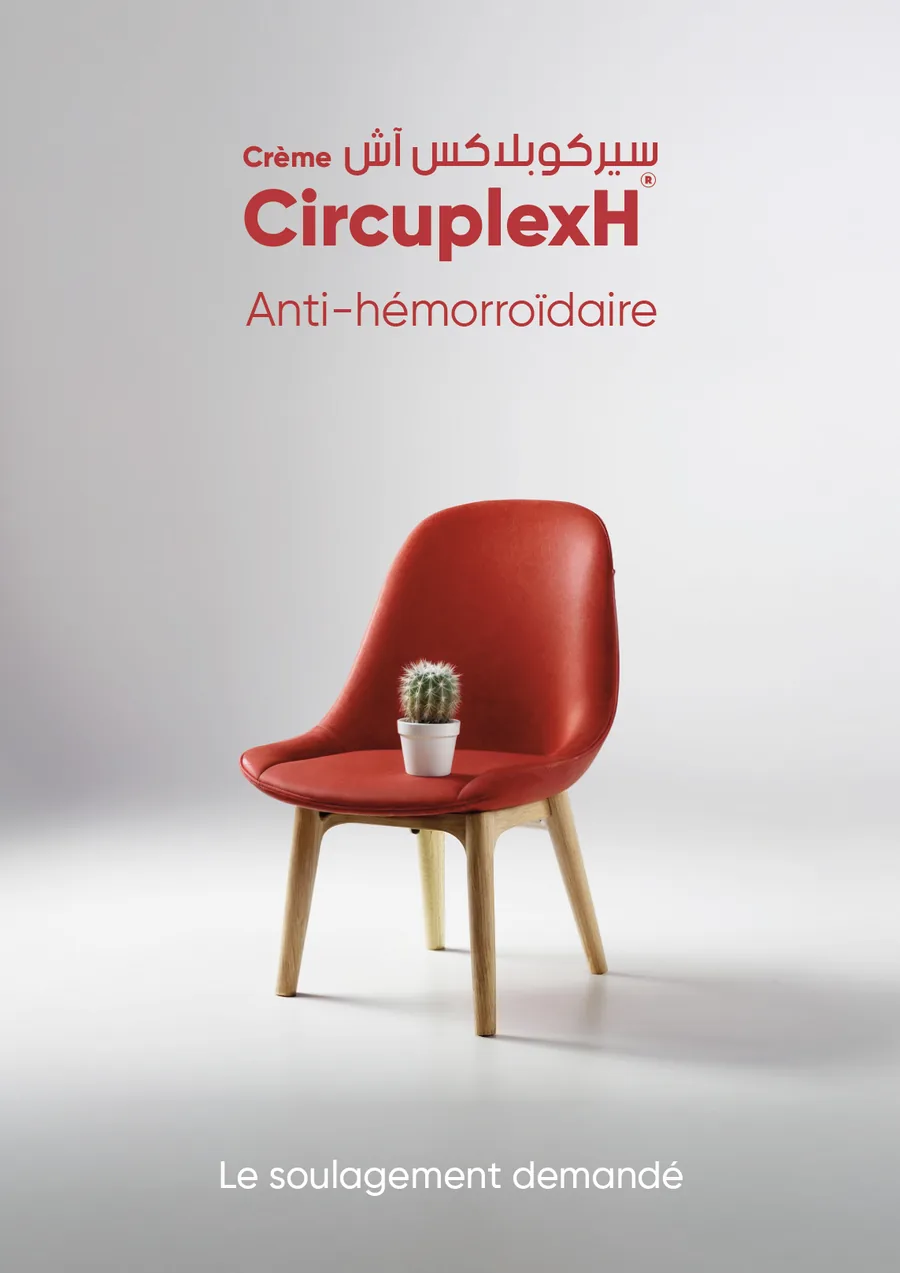
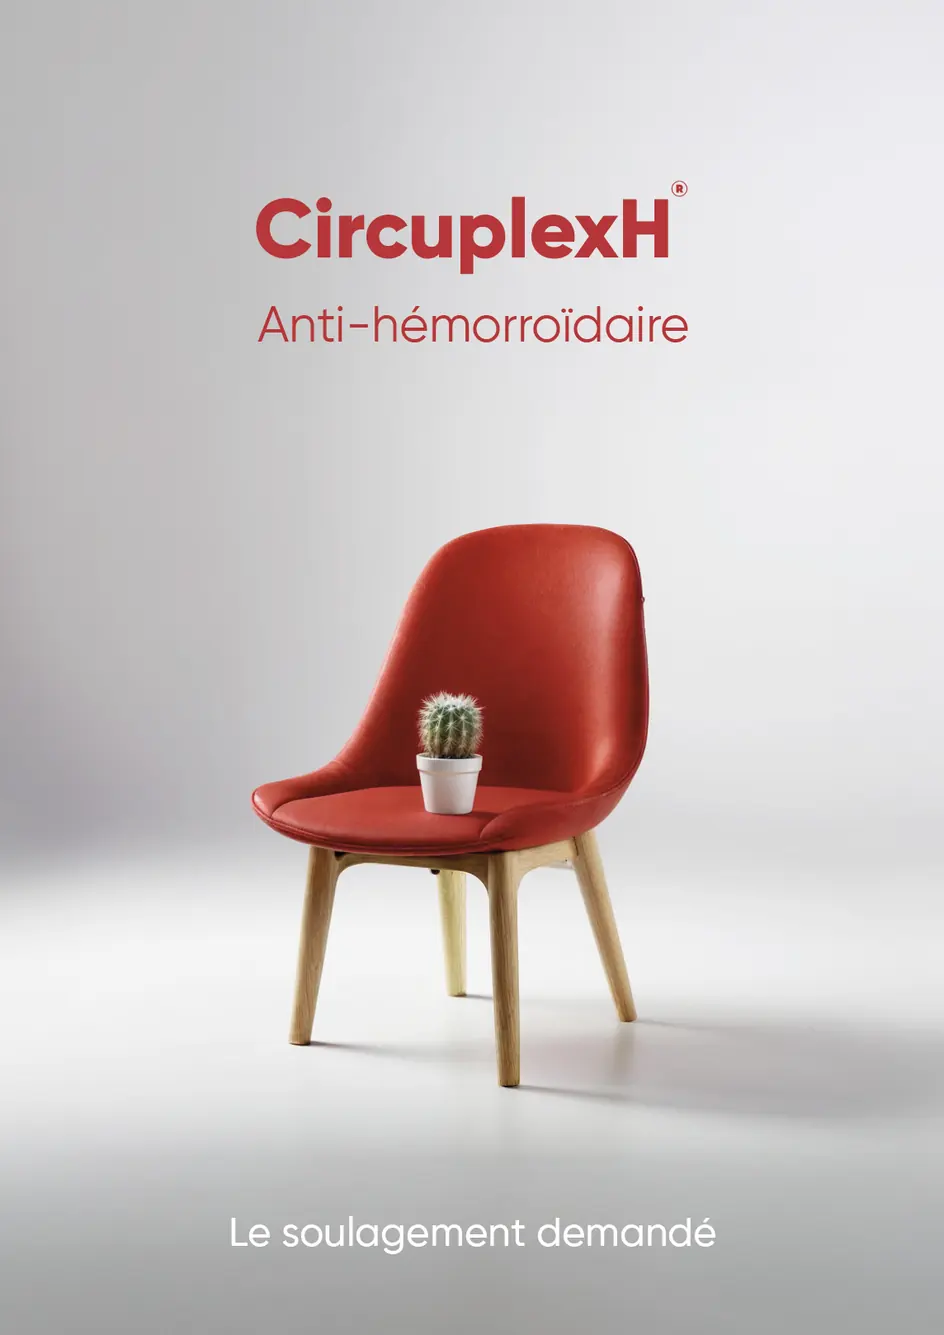
Put the real Natural Solution posters in the reel
Replaces the five generated sheets with the campaign posters:
CircuplexH, Ferronat, HyaluCare, LiniCare and Pitchouline. Every one
maps onto the caption that was already under it, so no copy moved and
the order the section opens on - CircuplexH first - is unchanged.

Sized to the sheet rather than to the old file. The reel column caps
at 472px, so DPR 2 wants 944 wide; the sheets ship at 944x1335 against
the 900x1273 they were, and the width and height attributes follow.
The narrowest source is 1090px, so nothing is upscaled. Each was
fitted to 210:297 at source - the files arrive between 0.7018 and
0.7083 - so object-fit crops none of them.

Quality per image rather than one setting for all five. Four clear
38dB between q=76 and q=80 for 21-63KB. HyaluCare is a dense
composite and does not: its curve is linear, 33.5dB at q=68 through
37.2dB at q=88, every step buying about a decibel for another 25-35KB.
Taking q=88 there would have cost 216KB at 0.176 B/px, outside the
band the rest of the site's imagery occupies, for detail that is
halved again at the 472px it is displayed at. It ships at q=80:
153KB, 0.125 B/px, in band.

The gallery is 352KB, down from 393KB, at better than 1.4x the pixels.

Measured: sheet renders 472x668 (0.7071), all five decode at 944x1335,
none broken, each dot reaches its own sheet, captions still in order;
contrast 0 failures on six pages, no overflow at 17 widths, 134 editor
keys with no duplicates.
[…]

Changed region(s): [[0.28, 0.0919, 0.7467, 0.1838], [0.6533, 0.2145, 0.6844, 0.2757], [0.5911, 0.2145, 0.6222, 0.2757]]

diff --git a/index.html b/index.html
@@ -769,31 +769,31 @@
             <ul class="reel-track">
             <li class="reel-card" style="--i:0">
               <div class="reel-sheet">
-                <img src="assets/posters/natural-circuplexh.webp" alt="CircuplexH — Crème anti-hémorroïdaire" width="900" height="1273" decoding="async" loading="lazy" data-ed="index.i44">
+                <img src="assets/posters/natural-circuplexh.webp" alt="CircuplexH — Crème anti-hémorroïdaire" width="944" height="1335" decoding="async" loading="lazy" data-ed="index.i44">
               </div>
               <div class="reel-cap"><b data-ed="index.t67">CircuplexH</b><span data-ed="index.t68">Crème anti-hémorroïdaire</span></div>
             </li>
             <li class="reel-card" style="--i:1">
               <div class="reel-sheet">
-                <img src="assets/posters/natural-ferronat.webp" alt="Ferronat — Bisglycinate de fer 100 mg/ml" width="900" height="1273" decoding="async" loading="lazy" data-ed="index.i41">
+                <img src="assets/posters/natural-ferronat.webp" alt="Ferronat — Bisglycinate de fer 100 mg/ml" width="944" height="1335" decoding="async" loading="lazy" data-ed="index.i41">
               </div>
               <div class="reel-cap"><b data-ed="index.t61">Ferronat</b><span data-ed="index.t62">Bisglycinate de fer 100 mg/ml</span></div>
             </li>
             <li class="reel-card" style="--i:2">
               <div class="reel-sheet">
-                <img src="assets/posters/natural-hyalucare.webp" alt="HyaluCare — Bain de bouche gel" width="900" height="1273" decoding="async" loading="lazy" data-ed="index.i42">
+                <img src="assets/posters/natural-hyalucare.webp" alt="HyaluCare — Bain de bouche gel" width="944" height="1335" decoding="async" loading="lazy" data-ed="index.i42">
               </div>
               <div class="reel-cap"><b data-ed="index.t63">HyaluCare</b><span data-ed="index.t64">Bain de bouche gel</span></div>
             </li>
             <li class="reel-card" style="--i:3">
               <div class="reel-sheet">
-                <img src="assets/posters/natural-linicare.webp" alt="LiniCare — Liniment oléo-calcaire" width="900" height="1273" decoding="async" loading="lazy" data-ed="index.i43">
+                <img src="assets/posters/natural-linicare.webp" alt="LiniCare — Liniment oléo-calcaire" width="944" height="1335" decoding="async" loading="lazy" data-ed="index.i43">
               </div>
               <div class="reel-cap"><b data-ed="index.t65">LiniCare</b><span data-ed="index.t66">Liniment oléo-calcaire</span></div>
             </li>
             <li class="reel-card" style="--i:4">
               <div class="reel-sheet">
-                <img src="assets/posters/natural-pitchouline.webp" alt="Pitchouline — Soin bébé" width="900" height="1273" decoding="async" loading="lazy" data-ed="index.i45">
+                <img src="assets/posters/natural-pitchouline.webp" alt="Pitchouline — Soin bébé" width="944" height="1335" decoding="async" loading="lazy" data-ed="index.i45">
               </div>
               <div class="reel-cap"><b data-ed="index.t69">Pitchouline</b><span data-ed="index.t70">Soin bébé</span></div>
             </li>
